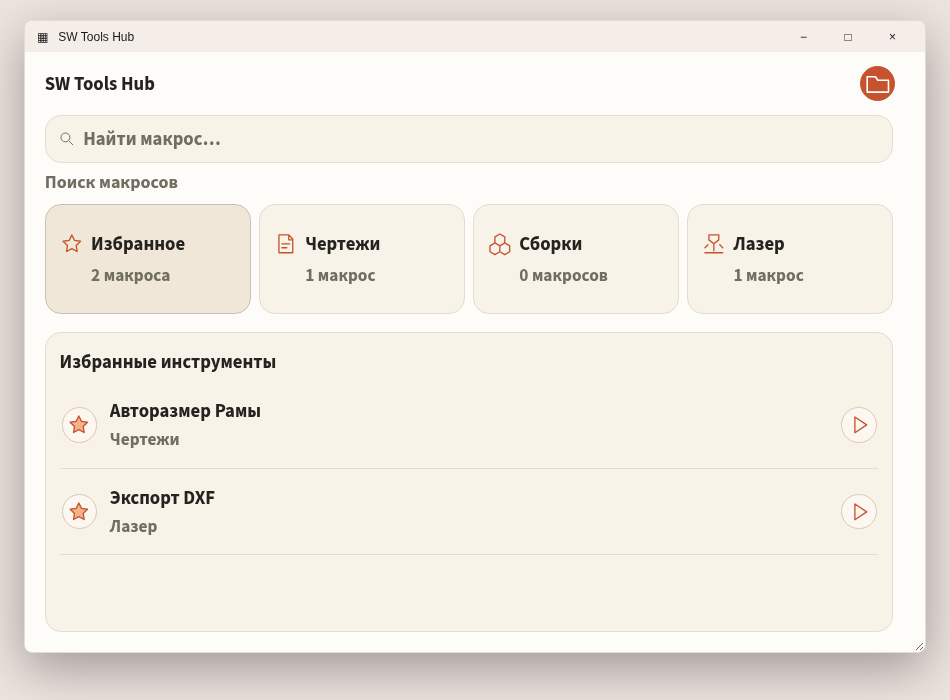
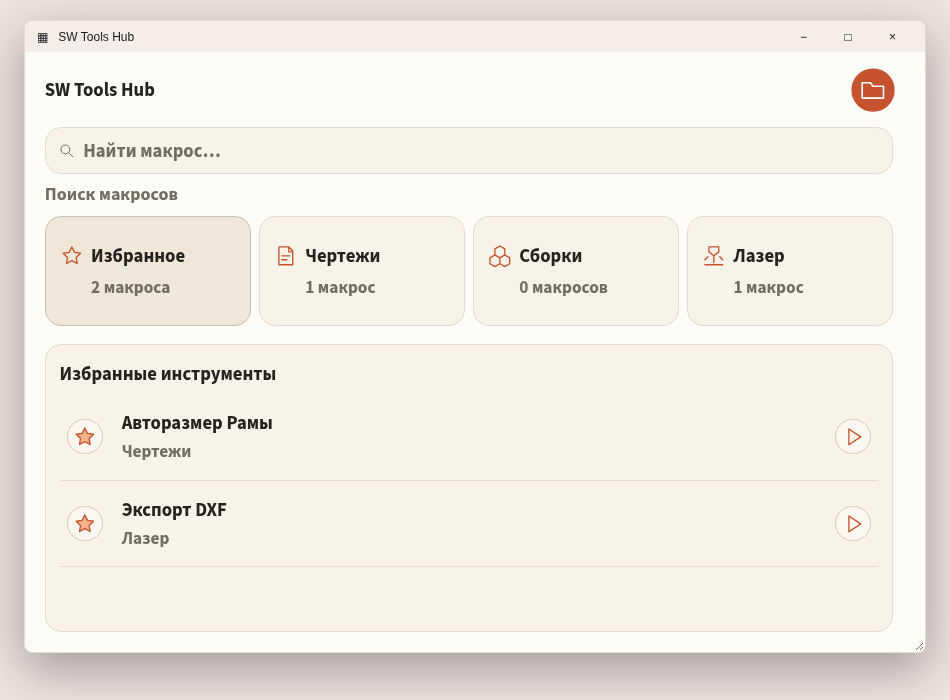
Исправить выбор макроса для запуска и добавить задержанный hover с ростом круга

diff --git a/docs/preview/index.html b/docs/preview/index.html
@@ -7,7 +7,7 @@ body{margin:0;padding:20px;background:#EDE4DF;display:flex;justify-content:cente
 .titlebar span:last-child{letter-spacing:17px}
 .app{--s:1;flex:1;min-height:0;overflow-y:auto;overflow-x:hidden;scrollbar-gutter:stable;container-type:inline-size}
 .page{min-height:100%;display:flex;flex-direction:column}
-.header{height:calc(64px * var(--s));min-height:52px;padding:calc(12px * var(--s)) calc(18px * var(--s)) calc(12px * var(--s)) calc(20px * var(--s));display:flex;align-items:center;justify-content:space-between;flex-shrink:0}
+.header{height:calc(76px * var(--s));min-height:52px;padding:calc(12px * var(--s)) calc(18px * var(--s)) calc(12px * var(--s)) calc(20px * var(--s));display:flex;align-items:center;justify-content:space-between;flex-shrink:0}
 strong,h2{font-size:18.667px;font-weight:700}
 .toolbar{display:flex;gap:calc(4px * var(--s))}
 button,input{font:inherit}
@@ -31,7 +31,7 @@ svg{width:calc(24px * var(--s));height:calc(24px * var(--s));fill:none;stroke:cu
 .content{flex:1;min-height:calc(240px * var(--s));margin:calc(10px * var(--s)) calc(20px * var(--s)) calc(20px * var(--s));padding:calc(16px * var(--s)) calc(14px * var(--s));overflow:visible;background:#F8F3E8;border:1px solid #E3DCCF;border-radius:16px}
 h2{margin:0 0 calc(16px * var(--s))}
 .empty{margin:0;color:#706D61;font-size:17.333px;line-height:1.6}
-.macro-row{display:grid;grid-template-columns:calc(40px * var(--s)) minmax(0,1fr) calc(40px * var(--s));min-height:calc(80px * var(--s));align-items:stretch;gap:calc(4px * var(--s));margin-bottom:calc(8px * var(--s));padding-bottom:calc(8px * var(--s));border-bottom:1px solid #E3DCCF}
+.macro-row{display:grid;grid-template-columns:calc(52px * var(--s)) minmax(0,1fr) calc(52px * var(--s));min-height:calc(80px * var(--s));align-items:stretch;gap:calc(4px * var(--s));margin-bottom:calc(8px * var(--s));padding-bottom:calc(8px * var(--s));border-bottom:1px solid #E3DCCF}
 .macro-row button{min-width:0}
 .macro-name{padding:calc(6px * var(--s));text-align:left;background:transparent;border-color:transparent;border-radius:12px}
 .macro-name span{display:block;overflow:hidden;text-overflow:ellipsis;white-space:nowrap}
@@ -49,14 +49,33 @@ button:focus-visible{outline:2px solid #706D61;outline-offset:2px}
 .app::-webkit-scrollbar{width:12px}.app::-webkit-scrollbar-track{background:#F6F2EA}.app::-webkit-scrollbar-thumb{background:#C5BCAF;border:3px solid #F6F2EA;border-radius:8px}.app::-webkit-scrollbar-thumb:hover{background:#AFA18E}
 .tile{transition:background-color .14s ease,color .14s ease,border-color .14s ease}.tile svg{transition:transform .14s ease,color .14s ease}
 .tile:hover{background:#C6532E;color:#FFFFFF;border-color:#C6532E}.tile:hover svg,.tile:hover small{color:#FFFFFF}.tile:hover svg{transform:scale(1.2)}
-</style><body><div class="window"><div class="titlebar"><span>▦ &nbsp; SW Tools Hub</span><span>− □ ×</span></div><main class="app"><div class="page"><header class="header"><strong>SW Tools Hub</strong><div class="toolbar"><button title="Выбрать папку библиотеки" onclick="document.getElementById('status').textContent='В приложении откроется системный выбор папки Windows.'"><svg viewBox="0 0 24 24"><path d="M3 6h7l2 3h9v10H3Z"/></svg></button></div></header><div class="search"><svg viewBox="0 0 24 24"><circle cx="10" cy="10" r="6"/><path d="m15 15 5 5"/></svg><input aria-label="Поиск макросов" oninput="render()" placeholder="Найти макрос…"></div><div class="hint">Поиск макросов</div><section class="modules"><button class="tile" onclick="show('Избранное',this)"><span class="caption"><svg viewBox="0 0 24 24"><path d="m12 3 2.7 5.5 6.1.9-4.4 4.3 1 6.1-5.4-2.9-5.4 2.9 1-6.1-4.4-4.3 6.1-.9Z"/></svg>Избранное</span><small>0 макросов</small></button><button class="tile" onclick="show('Чертежи',this)"><span class="caption"><svg viewBox="0 0 24 24"><path d="M5 3h10l4 4v14H5Zm10 0v5h4M8 12h8M8 16h5"/></svg>Чертежи</span><small>0 макросов</small></button><button class="tile" onclick="show('Сборки',this)"><span class="caption"><svg viewBox="0 0 24 24"><path d="m12 2 5 3v6l-5 3-5-3V5Zm-5 9-5 3v6l5 3 5-3v-6Zm10 0-5 3v6l5 3 5-3v-6Z"/></svg>Сборки</span><small>0 макросов</small></button><button class="tile" onclick="show('Лазер',this)"><span class="caption"><svg viewBox="0 0 24 24"><path d="M7 3h10v5l-5 4-5-4Zm5 9v7M3 21h18M6 13l-3 3m15-3 3 3"/></svg>Лазер</span><small>0 макросов</small></button></section><section class="content"><h2 id="heading">Избранные инструменты</h2><div id="rows"></div><p class="empty" id="empty">Нажмите ☆ рядом с макросом в разделе,<br>чтобы добавить его в избранное.</p></section><div class="status" id="status">Добавьте .swp в папки разделов библиотеки.</div><footer class="footer">0 инструментов · Portable</footer></div></main></div><script>
+
+/* Reserve the enlarged circle's space so hover never moves the layout. */
+.toolbar button,.row-star,.row-play{width:calc(46px * var(--s));height:calc(46px * var(--s));position:relative;isolation:isolate;background:transparent!important;border:0}
+.toolbar button::before,.row-star::before,.row-play::before{content:'';position:absolute;inset:calc(5px * var(--s));z-index:-1;border:1px solid #DEC7B1;border-radius:50%;background:#FCF7F0;transition:transform .15s ease,background-color .15s ease,border-color .15s ease}
+.toolbar button,.row-star,.row-play,.tile,.macro-name{transition:background-color .15s ease,color .15s ease,border-color .15s ease}
+.toolbar button svg,.row-play svg,.tile svg{transition:transform .15s ease,color .15s ease}
+.toolbar button:hover,.row-star:hover,.row-play:hover,.tile:hover,.macro-name:hover{transition-delay:.18s}
+.toolbar button:hover::before,.row-play:hover::before{background:#C6532E;border-color:#C6532E;transform:scale(1.2);transition-delay:.18s}
+.row-star:hover::before{background:#F6E8DA;transition-delay:.18s}
+.toolbar button:hover svg,.row-play:hover svg,.tile:hover svg{transition-delay:.18s}
+.tile small{transition:color .15s ease}.tile:hover small{transition-delay:.18s}
+dialog{width:min(560px,calc(100vw - 40px));padding:24px;border:1px solid #E3DCCF;border-radius:16px;background:#FDFCF8;color:#24231F;box-shadow:0 18px 70px #0003;font:inherit}
+dialog::backdrop{background:#24231F55}dialog h2{margin-bottom:12px}dialog p{font-size:16px;color:#706D61;margin:0 0 20px}dialog label{display:block;margin:12px 0 6px}dialog select{width:100%;padding:10px;font:inherit;border:1px solid #E3DCCF;border-radius:10px;background:#F8F3E8;color:#24231F}.entry-buttons{display:flex;justify-content:flex-end;gap:10px;margin-top:24px}.entry-buttons button{padding:10px 18px}
+</style><body><div class="window"><div class="titlebar"><span>▦ &nbsp; SW Tools Hub</span><span>− □ ×</span></div><main class="app"><div class="page"><header class="header"><strong>SW Tools Hub</strong><div class="toolbar"><button title="Выбрать папку библиотеки" onclick="document.getElementById('status').textContent='В приложении откроется системный выбор папки Windows.'"><svg viewBox="0 0 24 24"><path d="M3 6h7l2 3h9v10H3Z"/></svg></button></div></header><div class="search"><svg viewBox="0 0 24 24"><circle cx="10" cy="10" r="6"/><path d="m15 15 5 5"/></svg><input aria-label="Поиск макросов" oninput="render()" placeholder="Найти макрос…"></div><div class="hint">Поиск макросов</div><section class="modules"><button class="tile" onclick="show('Избранное',this)"><span class="caption"><svg viewBox="0 0 24 24"><path d="m12 3 2.7 5.5 6.1.9-4.4 4.3 1 6.1-5.4-2.9-5.4 2.9 1-6.1-4.4-4.3 6.1-.9Z"/></svg>Избранное</span><small>0 макросов</small></button><button class="tile" onclick="show('Чертежи',this)"><span class="caption"><svg viewBox="0 0 24 24"><path d="M5 3h10l4 4v14H5Zm10 0v5h4M8 12h8M8 16h5"/></svg>Чертежи</span><small>0 макросов</small></button><button class="tile" onclick="show('Сборки',this)"><span class="caption"><svg viewBox="0 0 24 24"><path d="m12 2 5 3v6l-5 3-5-3V5Zm-5 9-5 3v6l5 3 5-3v-6Zm10 0-5 3v6l5 3 5-3v-6Z"/></svg>Сборки</span><small>0 макросов</small></button><button class="tile" onclick="show('Лазер',this)"><span class="caption"><svg viewBox="0 0 24 24"><path d="M7 3h10v5l-5 4-5-4Zm5 9v7M3 21h18M6 13l-3 3m15-3 3 3"/></svg>Лазер</span><small>0 макросов</small></button></section><section class="content"><h2 id="heading">Избранные инструменты</h2><div id="rows"></div><p class="empty" id="empty">Нажмите ☆ рядом с макросом в разделе,<br>чтобы добавить его в избранное.</p></section><div class="status" id="status">Добавьте .swp в папки разделов библиотеки.</div><footer class="footer">0 инструментов · Portable</footer></div></main></div><dialog id="entry-dialog"><h2 id="entry-title">Выбор модуля и инструмента</h2><p>Выберите модуль и инструмент для выбранного макроса.</p><label for="entry-module">Модуль</label><select id="entry-module"></select><label for="entry-procedure">Инструмент / процедура</label><select id="entry-procedure"></select><div class="entry-buttons"><button id="entry-cancel">Отмена</button><button id="entry-confirm">Запустить</button></div></dialog><script>
 // Данные только для предварительного просмотра: рабочие .swp не добавляются.
 const macros=[{name:'Авторазмер Рамы',category:'Чертежи',favorite:true},{name:'Экспорт DXF',category:'Лазер',favorite:true}];
 let section=null, selected=null;
 function macroCount(value){const form=new Intl.PluralRules('ru').select(value);return value+' '+({one:'макрос',few:'макроса',many:'макросов',other:'макроса'}[form])}
 function show(title,button){if(title==='Избранное'){section=null;document.querySelector('input').value=''}else section=section===title?null:title;render()}
-function render(){const query=document.querySelector('input').value.trim().toLowerCase();const home=!section&&!query;document.getElementById('heading').textContent=home?'Избранные инструменты':query?'Результаты поиска':section;document.querySelectorAll('.tile').forEach((tile,i)=>{const category=['Избранное','Чертежи','Сборки','Лазер'][i];tile.classList.toggle('active',i===0?section===null:section===category);tile.querySelector('small').textContent=macroCount(macros.filter(m=>i===0?m.favorite:m.category===category).length)});const visible=macros.filter(m=>(!section||m.category===section)&&(!home||m.favorite)&&m.name.toLowerCase().includes(query));const rows=document.getElementById('rows');rows.replaceChildren();visible.forEach(m=>{const row=document.createElement('div');row.className='macro-row';const star=document.createElement('button');star.className='row-star';star.innerHTML='<svg viewBox="0 0 24 24" style="fill:'+(m.favorite?'#F3B28A':'none')+'"><path d="m12 3 2.7 5.5 6.1.9-4.4 4.3 1 6.1-5.4-2.9-5.4 2.9 1-6.1-4.4-4.3 6.1-.9Z"/></svg>';star.title=(m.favorite?'Убрать из избранного: ':'В избранное: ')+m.name;star.onclick=()=>{m.favorite=!m.favorite;render()};const name=document.createElement('button');name.className='macro-name'+(selected===m?' selected':'');const title=document.createElement('span');title.textContent=m.name;name.append(title);if(home){const subtitle=document.createElement('small');subtitle.textContent=m.category;name.append(subtitle)}name.onclick=()=>{selected=m;render()};const play=document.createElement('button');play.className='row-play';play.title='Запустить: '+m.name;play.innerHTML='<svg viewBox="0 0 24 24"><path d="m8 4 12 8-12 8Z"/></svg>';play.onclick=()=>{selected=m;render()};row.append(star,name,play);rows.append(row)});document.getElementById('empty').style.display=visible.length?'none':'block';document.getElementById('empty').textContent=home?'Нажмите ☆ рядом с макросом в разделе, чтобы добавить его в избранное.':'Макросов пока нет. Измените запрос или раздел.'}
+function render(){const query=document.querySelector('input').value.trim().toLowerCase();const home=!section&&!query;document.getElementById('heading').textContent=home?'Избранные инструменты':query?'Результаты поиска':section;document.querySelectorAll('.tile').forEach((tile,i)=>{const category=['Избранное','Чертежи','Сборки','Лазер'][i];tile.classList.toggle('active',i===0?section===null:section===category);tile.querySelector('small').textContent=macroCount(macros.filter(m=>i===0?m.favorite:m.category===category).length)});const visible=macros.filter(m=>(!section||m.category===section)&&(!home||m.favorite)&&m.name.toLowerCase().includes(query));const rows=document.getElementById('rows');rows.replaceChildren();visible.forEach(m=>{const row=document.createElement('div');row.className='macro-row';const star=document.createElement('button');star.className='row-star';star.innerHTML='<svg viewBox="0 0 24 24" style="fill:'+(m.favorite?'#F3B28A':'none')+'"><path d="m12 3 2.7 5.5 6.1.9-4.4 4.3 1 6.1-5.4-2.9-5.4 2.9 1-6.1-4.4-4.3 6.1-.9Z"/></svg>';star.title=(m.favorite?'Убрать из избранного: ':'В избранное: ')+m.name;star.onclick=()=>{m.favorite=!m.favorite;render()};const name=document.createElement('button');name.className='macro-name'+(selected===m?' selected':'');const title=document.createElement('span');title.textContent=m.name;name.append(title);if(home){const subtitle=document.createElement('small');subtitle.textContent=m.category;name.append(subtitle)}name.onclick=()=>{selected=m;render()};const play=document.createElement('button');play.className='row-play';play.title='Запустить: '+m.name;play.innerHTML='<svg viewBox="0 0 24 24"><path d="m8 4 12 8-12 8Z"/></svg>';play.onclick=()=>openEntry(m);row.append(star,name,play);rows.append(row)});document.getElementById('empty').style.display=visible.length?'none':'block';document.getElementById('empty').textContent=home?'Нажмите ☆ рядом с макросом в разделе, чтобы добавить его в избранное.':'Макросов пока нет. Измените запрос или раздел.'}
 
+let entryMethods={};
+function updateProcedures(){const control=document.getElementById('entry-procedure');control.replaceChildren(...entryMethods[document.getElementById('entry-module').value].map(name=>new Option(name,name)))}
+function openEntry(m){selected=m;entryMethods=m.entries||(m.name==='Авторазмер Рамы'?{FrameCutListDimensionsV3:['main']}:{DXFExport:['main','exportSelected']});document.getElementById('entry-title').textContent=m.name;const modules=document.getElementById('entry-module');modules.replaceChildren(...Object.keys(entryMethods).map(name=>new Option(name,name)));updateProcedures();document.getElementById('entry-dialog').showModal()}
+document.getElementById('entry-module').onchange=updateProcedures;
+document.getElementById('entry-cancel').onclick=()=>document.getElementById('entry-dialog').close();
+document.getElementById('entry-confirm').onclick=()=>{document.getElementById('status').textContent='Предварительный просмотр — макрос не выполнялся.';document.getElementById('entry-dialog').close()};
 render();
 const app=document.querySelector('.app');
 new ResizeObserver(()=>app.style.setProperty('--s',Math.max(.8,Math.min(1.5,app.clientWidth/900)))).observe(app);

diff --git a/addin/portable/Program.cs b/addin/portable/Program.cs
@@ -25,7 +25,7 @@ namespace SWToolsHub.Portable
     {
         private readonly string root = AppDomain.CurrentDomain.BaseDirectory;
         private readonly TextBox search = new TextBox { Dock = DockStyle.Fill, BorderStyle = BorderStyle.None };
-        private readonly ListBox list = new ListBox { Dock = DockStyle.Fill, DisplayMember = "name" };
+        private Macro selectedMacro;
         private readonly Label status = new Label { Dock = DockStyle.Bottom, Height = 90, AutoEllipsis = true };
         private Macro[] macros = new Macro[0];
         private bool busy;
@@ -81,11 +81,11 @@ namespace SWToolsHub.Portable
             Font = UiTheme.CreateFont(); titleFont = (Font)Font.Clone(); BackColor = Background; ForeColor = Foreground;
             shell = new TableLayoutPanel { ColumnCount = 1, RowCount = 5, Padding = new Padding(0) };
             shell.ColumnStyles.Add(new ColumnStyle(SizeType.Percent, 100));
-            foreach (var height in new[] { 64, 56, 30, 120 }) shell.RowStyles.Add(new RowStyle(SizeType.Absolute, height));
+            foreach (var height in new[] { 76, 56, 30, 120 }) shell.RowStyles.Add(new RowStyle(SizeType.Absolute, height));
             shell.RowStyles.Add(new RowStyle(SizeType.Percent, 100));
             header = new TableLayoutPanel { Dock = DockStyle.Fill, ColumnCount = 2, RowCount = 1, Padding = new Padding(20, 12, 16, 12) };
             header.ColumnStyles.Add(new ColumnStyle(SizeType.Percent, 100));
-            for (int i = 0; i < 1; i++) header.ColumnStyles.Add(new ColumnStyle(SizeType.Absolute, Px(40)));
+            for (int i = 0; i < 1; i++) header.ColumnStyles.Add(new ColumnStyle(SizeType.Absolute, Px(52)));
             var brand = new Label { Text = "SW Tools Hub", Dock = DockStyle.Fill, TextAlign = ContentAlignment.MiddleLeft, Font = titleFont };
             var choose = MakeButton("");
             ConfigureIcon(choose, "folder", "Выбрать корневую папку библиотеки");
@@ -136,9 +136,8 @@ namespace SWToolsHub.Portable
         }
         private void Filter()
         {
-            var selectedId = (list.SelectedItem as Macro)?.id;
-            list.DataSource = VisibleMacros();
-            list.SelectedItem = selectedId == null ? null : macros.FirstOrDefault(m => m.id == selectedId);
+            var selectedId = selectedMacro?.id;
+            selectedMacro = VisibleMacros().FirstOrDefault(m => m.id == selectedId);
             RefreshLayout();
         }
         private Macro[] VisibleMacros()
@@ -226,13 +225,13 @@ namespace SWToolsHub.Portable
                 shell.SuspendLayout();
                 shell.Width = Math.Max(1, viewport.ClientSize.Width - SystemInformation.VerticalScrollBarWidth);
                 shell.Margin = new Padding(0);
-                var heights = new[] { Px(64), Math.Max(Px(56), Font.Height + Px(28)), Math.Max(Px(30), Font.Height + Px(4)), Px(narrow ? 240 : 120) };
+                var heights = new[] { Px(76), Math.Max(Px(56), Font.Height + Px(28)), Math.Max(Px(30), Font.Height + Px(4)), Px(narrow ? 240 : 120) };
                 for (int i = 0; i < heights.Length; i++) shell.RowStyles[i].Height = heights[i];
                 header.Padding = Space(20, 12, 16, 12);
-                header.ColumnStyles[1].Width = Px(40);
+                header.ColumnStyles[1].Width = Px(52);
                 foreach (var button in header.Controls.OfType<RoundedButton>()) {
                     button.Dock = DockStyle.None; button.Anchor = AnchorStyles.None;
-                    button.Size = new Size(Px(36), Px(36)); button.IconSize = Px(24); button.Margin = new Padding(Px(2));
+                    button.Size = new Size(Px(46), Px(46)); button.IconSize = Px(24); button.Margin = new Padding(Px(2));
                 }
                 searchBox.Padding = Space(12, 12, 12, 8); searchBox.Margin = Space(20, 0, 20, 8);
                 heading.Padding = Space(20, 0, 0, 0);
@@ -299,11 +298,11 @@ namespace SWToolsHub.Portable
             foreach (var macro in visible) {
                 var row = new TableLayoutPanel { Width = width, Height = Px(home ? 84 : 68), ColumnCount = 3, RowCount = 1, Margin = Space(0, 0, 0, 4) };
                 row.Paint += (s, e) => { using (var pen = new Pen(UiTheme.Border)) e.Graphics.DrawLine(pen, 0, row.Height - 1, row.Width, row.Height - 1); };
-                row.ColumnStyles.Add(new ColumnStyle(SizeType.Absolute, Px(40))); row.ColumnStyles.Add(new ColumnStyle(SizeType.Percent, 100)); row.ColumnStyles.Add(new ColumnStyle(SizeType.Absolute, Px(40)));
+                row.ColumnStyles.Add(new ColumnStyle(SizeType.Absolute, Px(52))); row.ColumnStyles.Add(new ColumnStyle(SizeType.Percent, 100)); row.ColumnStyles.Add(new ColumnStyle(SizeType.Absolute, Px(52)));
                 bool favorite = settings.Favorites.Contains(macro.id, StringComparer.OrdinalIgnoreCase);
                 var star = MakeButton("");
                 ConfigureIcon(star, favorite ? "starFilled" : "star", (favorite ? "Убрать из избранного: " : "В избранное: ") + macro.name);
-                star.Dock = DockStyle.None; star.Anchor = AnchorStyles.None; star.Size = new Size(Px(36), Px(36));
+                star.Dock = DockStyle.None; star.Anchor = AnchorStyles.None; star.Size = new Size(Px(46), Px(46));
                 star.Click += (s, e) => {
                     var previous = settings.Favorites.ToList();
                     settings.Favorites.RemoveAll(id => string.Equals(id, macro.id, StringComparison.OrdinalIgnoreCase));
@@ -315,12 +314,12 @@ namespace SWToolsHub.Portable
                 ((RoundedButton)name).Borderless = true;
                 if (home) ((RoundedButton)name).SecondaryText = macro.category;
                 name.Dock = DockStyle.Fill; name.AutoEllipsis = true;
-                if ((list.SelectedItem as Macro)?.id == macro.id) name.BackColor = UiTheme.Selected;
-                name.Click += (s, e) => { list.SelectedItem = macro; status.Text = "Выбран: " + macro.name; RenderLibrary(); };
+                if (selectedMacro?.id == macro.id) name.BackColor = UiTheme.Selected;
+                name.Click += (s, e) => { selectedMacro = macro; status.Text = "Выбран: " + macro.name; RenderLibrary(); };
                 var play = MakeButton("");
                 ConfigureIcon(play, "play", "Выбрать процедуру и запустить: " + macro.name);
-                play.Dock = DockStyle.None; play.Anchor = AnchorStyles.None; play.Size = new Size(Px(36), Px(36));
-                play.Click += (s, e) => { list.SelectedItem = macro; RunSelected(true); };
+                play.Dock = DockStyle.None; play.Anchor = AnchorStyles.None; play.Size = new Size(Px(46), Px(46));
+                play.Click += (s, e) => { selectedMacro = macro; RunSelected(macro, true); };
                 row.Controls.Add(star, 0, 0); row.Controls.Add(name, 1, 0); row.Controls.Add(play, 2, 0); content.Controls.Add(row);
             }
             if (visible.Length == 0) content.Controls.Add(new Label { Text = home ? "Нажмите ☆ рядом с макросом в разделе, чтобы добавить его в избранное." : "Макросов пока нет. Добавьте .swp в папку раздела или измените запрос поиска.", Margin = new Padding(0), Width = width, Height = Px(100), ForeColor = Muted });
@@ -333,12 +332,11 @@ namespace SWToolsHub.Portable
             content.ResumeLayout();
         }
         private void ShowError(string text) { status.Text = text; MessageBox.Show(this, text, "SW Tools Hub", MessageBoxButtons.OK, MessageBoxIcon.Warning); }
-        private void RunSelected(bool chooseEntry = false)
+        private void RunSelected(Macro selected, bool chooseEntry = false)
         {
             if (busy) return;
-            var selected = list.SelectedItem as Macro;
             if (selected == null) { ShowError("Выберите инструмент."); return; }
-            busy = true; list.Enabled = false; content.Enabled = false; moduleGrid.Enabled = false;
+            busy = true; content.Enabled = false; moduleGrid.Enabled = false;
             SldWorks sw = null; ModelDoc2 document = null;
             try
             {
@@ -383,7 +381,7 @@ namespace SWToolsHub.Portable
             finally
             {
                 Release(document); Release(sw);
-                busy = false; list.Enabled = true; content.Enabled = true; moduleGrid.Enabled = true;
+                busy = false; content.Enabled = true; moduleGrid.Enabled = true;
             }
         }
         private static void Release(object value)

diff --git a/addin/portable/UiTheme.cs b/addin/portable/UiTheme.cs
@@ -43,6 +43,11 @@ namespace SWToolsHub.Portable
             fonts.Dispose();
             if (fontPath != null) RemoveFontResourceEx(fontPath, 0x10, IntPtr.Zero);
         }
+        public static Color Blend(Color from, Color to, float amount)
+        {
+            amount = Math.Max(0, Math.Min(1, amount));
+            return Color.FromArgb((int)Math.Round(from.R + (to.R - from.R) * amount), (int)Math.Round(from.G + (to.G - from.G) * amount), (int)Math.Round(from.B + (to.B - from.B) * amount));
+        }
         public static GraphicsPath Shape(RectangleF bounds, float radius)
         {
             var path = new GraphicsPath();
@@ -76,34 +81,61 @@ namespace SWToolsHub.Portable
         public bool LeadingIcon { get; set; }
         public bool Borderless { get; set; }
         private bool hovered;
-        public RoundedButton() { DoubleBuffered = true; ResizeRedraw = true; }
-        protected override void OnMouseEnter(EventArgs e) { hovered = true; Invalidate(); base.OnMouseEnter(e); }
-        protected override void OnMouseLeave(EventArgs e) { hovered = false; Invalidate(); base.OnMouseLeave(e); }
+        private bool hoverReady;
+        private bool stopping;
+        private float hoverProgress;
+        private readonly Timer hoverDelay = new Timer { Interval = 180 };
+        private readonly Timer hoverAnimation = new Timer { Interval = 15 };
+        public RoundedButton()
+        {
+            DoubleBuffered = true; ResizeRedraw = true;
+            hoverDelay.Tick += (s, e) => { hoverDelay.Stop(); if (hovered && Enabled) { hoverReady = true; hoverAnimation.Start(); } };
+            hoverAnimation.Tick += (s, e) => {
+                float target = hovered && hoverReady && Enabled ? 1 : 0;
+                hoverProgress = target > hoverProgress ? Math.Min(target, hoverProgress + .1f) : Math.Max(target, hoverProgress - .1f);
+                Invalidate(); if (Math.Abs(hoverProgress - target) < .001f) hoverAnimation.Stop();
+            };
+        }
+        protected override void OnMouseEnter(EventArgs e) { if (!stopping) { hovered = true; hoverDelay.Stop(); hoverDelay.Start(); } base.OnMouseEnter(e); }
+        protected override void OnMouseLeave(EventArgs e) { if (!stopping) { hovered = false; hoverReady = false; hoverDelay.Stop(); hoverAnimation.Start(); } base.OnMouseLeave(e); }
+        protected override void OnEnabledChanged(EventArgs e)
+        {
+            base.OnEnabledChanged(e);
+            if (!Enabled && !stopping) { hoverDelay.Stop(); hoverAnimation.Stop(); hovered = hoverReady = false; hoverProgress = 0; Invalidate(); }
+        }
+        protected override void Dispose(bool disposing)
+        {
+            if (disposing) { stopping = true; hoverDelay.Dispose(); hoverAnimation.Dispose(); }
+            base.Dispose(disposing);
+        }
         protected override void OnPaint(PaintEventArgs e)
         {
             e.Graphics.Clear(Parent?.BackColor ?? BackColor);
             e.Graphics.SmoothingMode = SmoothingMode.AntiAlias;
             bool card = BackColor.ToArgb() == UiTheme.Card.ToArgb() || BackColor.ToArgb() == UiTheme.Selected.ToArgb();
-            bool accentActive = AccentHover && hovered && Enabled;
-            var hoverColor = accentActive ? UiTheme.AccentInk : IconOnly ? UiTheme.IconHover : card ? UiTheme.Selected : UiTheme.Background;
-            float diameter = Math.Max(1, Math.Min(Width, Height) - 2);
+            float progress = Enabled ? hoverProgress : 0;
+            float accentProgress = AccentHover ? progress : 0;
+            bool accentActive = accentProgress > 0;
+            var hoverColor = AccentHover ? UiTheme.AccentInk : IconOnly ? UiTheme.IconHover : card ? UiTheme.Selected : UiTheme.Background;
+            float available = Math.Max(1, Math.Min(Width, Height) - 2);
+            float diameter = Math.Min(available, Math.Max(1, Math.Min(Width, Height) * (36f / 46f) - 2) * (1 + .2f * accentProgress));
             var shapeBounds = IconOnly ? new RectangleF((Width - diameter) / 2, (Height - diameter) / 2, diameter, diameter) : new RectangleF(1, 1, Width - 2, Height - 2);
             using (var path = UiTheme.Shape(shapeBounds, IconOnly ? diameter / 2 : 16))
-            using (var fill = new SolidBrush(hovered && Enabled ? hoverColor : BackColor))
-            using (var pen = new Pen(accentActive ? UiTheme.AccentInk : Focused ? UiTheme.IconInk : IconOnly ? UiTheme.IconBorder : UiTheme.Border, Focused ? 2 : 1)) {
+            using (var fill = new SolidBrush(UiTheme.Blend(BackColor, hoverColor, progress)))
+            using (var pen = new Pen(UiTheme.Blend(Focused ? UiTheme.IconInk : IconOnly ? UiTheme.IconBorder : UiTheme.Border, UiTheme.AccentInk, accentProgress), Focused ? 2 : 1)) {
                 e.Graphics.FillPath(fill, path); if (!Borderless || Focused) e.Graphics.DrawPath(pen, path);
             }
             int iconSpace = (int)Math.Round(IconSize) + 8;
             if (Image != null) {
                 int normalSize = Math.Max(1, Math.Min((int)Math.Round(IconSize), Math.Min(Width, Height) - 8));
-                int size = accentActive ? Math.Min(Math.Min(Width, Height) - 6, (int)Math.Round(normalSize * 1.2)) : normalSize;
+                int size = accentActive ? Math.Min(Math.Min(Width, Height) - 6, (int)Math.Round(normalSize * (1 + .2f * accentProgress))) : normalSize;
                 int x = LeadingIcon ? Padding.Left : (Width - size) / 2;
                 int y = LeadingIcon ? Math.Max(8, (Height - Font.Height * (string.IsNullOrEmpty(SecondaryText) ? 3 : 2) - 2) / 2) : (Height - size) / 2;
                 var target = new Rectangle(x, y, size, size);
                 e.Graphics.InterpolationMode = InterpolationMode.HighQualityBicubic;
                 if (accentActive) {
                     using (var attributes = new ImageAttributes()) {
-                        var tint = new ColorMatrix { Matrix00 = 0, Matrix11 = 0, Matrix22 = 0, Matrix40 = 1, Matrix41 = 1, Matrix42 = 1 };
+                        var tint = new ColorMatrix { Matrix00 = 1 - accentProgress, Matrix11 = 1 - accentProgress, Matrix22 = 1 - accentProgress, Matrix40 = accentProgress, Matrix41 = accentProgress, Matrix42 = accentProgress };
                         attributes.SetColorMatrix(tint);
                         e.Graphics.DrawImage(Image, target, 0, 0, Image.Width, Image.Height, GraphicsUnit.Pixel, attributes);
                     }
@@ -112,7 +144,7 @@ namespace SWToolsHub.Portable
             }
             var textBounds = new Rectangle(Padding.Left, Padding.Top, Math.Max(1, Width - Padding.Horizontal), Math.Max(1, Height - Padding.Vertical));
             if (LeadingIcon) { textBounds.X += iconSpace; textBounds.Width = Math.Max(1, textBounds.Width - iconSpace); }
-            var textColor = accentActive ? Color.White : Enabled ? ForeColor : SystemColors.GrayText;
+            var textColor = Enabled ? UiTheme.Blend(ForeColor, Color.White, accentProgress) : SystemColors.GrayText;
             var flags = TextFormatFlags.VerticalCenter | TextFormatFlags.WordBreak | TextFormatFlags.EndEllipsis;
             flags |= TextAlign == ContentAlignment.MiddleCenter ? TextFormatFlags.HorizontalCenter : TextFormatFlags.Left;
             if (!string.IsNullOrEmpty(SecondaryText)) {
@@ -122,7 +154,7 @@ namespace SWToolsHub.Portable
                 var lineFlags = TextFormatFlags.Left | TextFormatFlags.SingleLine | TextFormatFlags.EndEllipsis;
                 TextRenderer.DrawText(e.Graphics, Text, Font, titleBounds, textColor, lineFlags);
                 using (var detailFont = new Font(Font.FontFamily, Math.Max(8, Font.Size - 1), Font.Style))
-                    TextRenderer.DrawText(e.Graphics, SecondaryText, detailFont, detailBounds, accentActive ? Color.White : UiTheme.Muted, lineFlags);
+                    TextRenderer.DrawText(e.Graphics, SecondaryText, detailFont, detailBounds, UiTheme.Blend(UiTheme.Muted, Color.White, accentProgress), lineFlags);
             } else TextRenderer.DrawText(e.Graphics, Text, Font, textBounds, textColor, flags);
         }
     }

diff --git a/addin/portable/EntryDialog.cs b/addin/portable/EntryDialog.cs
@@ -12,10 +12,10 @@ namespace SWToolsHub.Portable
         {
             BackColor = UiTheme.Background; ForeColor = UiTheme.Text;
             Font = UiTheme.CreateFont();
-            Text = "Модуль и процедура: " + name;
+            Text = "Выбор модуля и инструмента: " + name;
             StartPosition = FormStartPosition.CenterParent;
             AutoScaleMode = AutoScaleMode.Dpi;
-            ClientSize = new Size(640, 460); MinimumSize = new Size(580, 460);
+            ClientSize = new Size(640, 520); MinimumSize = SizeFromClientSize(new Size(560, 500));
             var layout = new TableLayoutPanel { Dock = DockStyle.Fill, Padding = new Padding(12), ColumnCount = 1, RowCount = 7 };
             layout.ColumnStyles.Add(new ColumnStyle(SizeType.Percent, 100));
             foreach (var height in new[] { 88, 32, 42, 32, 42, 74, 54 }) layout.RowStyles.Add(new RowStyle(SizeType.Absolute, height));
@@ -55,7 +55,7 @@ namespace SWToolsHub.Portable
                 Entry = entry.FullName; DialogResult = DialogResult.OK;
             };
             layout.Controls.Add(info, 0, 0); layout.Controls.Add(new Label { Text = "Модуль", Dock = DockStyle.Fill }, 0, 1);
-            layout.Controls.Add(module, 0, 2); layout.Controls.Add(new Label { Text = "Процедура", Dock = DockStyle.Fill }, 0, 3);
+            layout.Controls.Add(module, 0, 2); layout.Controls.Add(new Label { Text = "Инструмент / процедура", Dock = DockStyle.Fill }, 0, 3);
             layout.Controls.Add(procedure, 0, 4); layout.Controls.Add(reload, 0, 5); layout.Controls.Add(buttons, 0, 6);
             foreach (var field in new[] { module, procedure }) { field.BackColor = UiTheme.Surface; field.ForeColor = ForeColor; field.FlatStyle = FlatStyle.Flat; }
             foreach (var button in new[] { reload, confirm, cancel }) { button.FlatStyle = FlatStyle.Flat; button.FlatAppearance.BorderSize = 0; button.BackColor = UiTheme.Card; button.ForeColor = UiTheme.OnCard; }

diff --git a/docs/HANDOFF.md b/docs/HANDOFF.md
@@ -1,5 +1,41 @@
 # Продолжение разработки SW Tools Hub
 
+## Запуск строки, выбор инструмента и задержанный hover (9 ноября 2026)
+
+Исправлена причина предупреждения «Выберите инструмент» при нажатии
+play: прежний код записывал/читал SelectedItem скрытого ListBox,
+не связанного с видимыми строками. Скрытый список удалён. Кнопка строки
+передаёт свой Macro прямо в RunSelected(Macro, true); отдельное поле
+selectedMacro используется только для подсветки. Перед исполнением
+по-прежнему повторно проверяются файл/папка, документ, точка входа
+и блокировка повторного запуска. COM-вызовы остаются в STA UI-потоке.
+
+Play открывает существующий EntryDialog с выбором модуля и инструмента
+(процедуры) из GetMacroMethods. При пустом ответе API сохраняются
+известная/сохранённая точка входа и ручной ввод. Выбор сохраняется
+по пути файла, отмена не запускает VBA. Метки диалога уточнены;
+клиентская высота увеличена до 520 px, чтобы все строки и кнопки помещались.
+Самостоятельная реальная Windows/SolidWorks-проверка запуска ещё нужна.
+
+У RoundedButton добавлена задержка hover 180 ms и плавное изменение
+примерно за 150 ms. При коротком наведении эффект не включается;
+при уходе курсора сразу начинается обратный переход. Таймеры
+останавливаются при отключении и освобождаются при Dispose.
+Кружки play/папки растут вместе со значком на 20%. В разметке для них
+зарезервирована квадратная область 46 базовых px, базовый вид круга
+остался около 36 px; колонки расширены, соседние строки не сдвигаются.
+
+Сборка net48 прошла без ошибок и предупреждений; 27 проверок сканера
+и разбора процедур прошли. Браузерный макет проверен: задержка до
+срабатывания, отмена короткого hover, рост круга/значка без сдвига,
+прямое открытие диалога нужного макроса без выбора строки, переключение
+модулей и зависимого списка процедур, отмена/подтверждение, компактная
+прокрутка. entry-picker.png показывает макет выбора; реальные COM/VBA
+он не исполняет. Превью, Portable ZIP и SHA-256 обновлены.
+WinForms/DPI, работа таймеров и настоящий GetMacroMethods/RunMacro2
+после изменения требуют приёмки на Windows с SolidWorks.
+
+
 ## Круглая кнопка папки и папка «Избранное» (9 ноября 2026)
 
 Кнопка выбора библиотеки в шапке больше не заполняет прямоугольную ячейку:

diff --git a/addin/portable/README.md b/addin/portable/README.md
@@ -1,5 +1,41 @@
 # Переносимое приложение
 
+## Запуск строки, выбор инструмента и задержанный hover (9 ноября 2026)
+
+Исправлена причина предупреждения «Выберите инструмент» при нажатии
+play: прежний код записывал/читал SelectedItem скрытого ListBox,
+не связанного с видимыми строками. Скрытый список удалён. Кнопка строки
+передаёт свой Macro прямо в RunSelected(Macro, true); отдельное поле
+selectedMacro используется только для подсветки. Перед исполнением
+по-прежнему повторно проверяются файл/папка, документ, точка входа
+и блокировка повторного запуска. COM-вызовы остаются в STA UI-потоке.
+
+Play открывает существующий EntryDialog с выбором модуля и инструмента
+(процедуры) из GetMacroMethods. При пустом ответе API сохраняются
+известная/сохранённая точка входа и ручной ввод. Выбор сохраняется
+по пути файла, отмена не запускает VBA. Метки диалога уточнены;
+клиентская высота увеличена до 520 px, чтобы все строки и кнопки помещались.
+Самостоятельная реальная Windows/SolidWorks-проверка запуска ещё нужна.
+
+У RoundedButton добавлена задержка hover 180 ms и плавное изменение
+примерно за 150 ms. При коротком наведении эффект не включается;
+при уходе курсора сразу начинается обратный переход. Таймеры
+останавливаются при отключении и освобождаются при Dispose.
+Кружки play/папки растут вместе со значком на 20%. В разметке для них
+зарезервирована квадратная область 46 базовых px, базовый вид круга
+остался около 36 px; колонки расширены, соседние строки не сдвигаются.
+
+Сборка net48 прошла без ошибок и предупреждений; 27 проверок сканера
+и разбора процедур прошли. Браузерный макет проверен: задержка до
+срабатывания, отмена короткого hover, рост круга/значка без сдвига,
+прямое открытие диалога нужного макроса без выбора строки, переключение
+модулей и зависимого списка процедур, отмена/подтверждение, компактная
+прокрутка. entry-picker.png показывает макет выбора; реальные COM/VBA
+он не исполняет. Превью, Portable ZIP и SHA-256 обновлены.
+WinForms/DPI, работа таймеров и настоящий GetMacroMethods/RunMacro2
+после изменения требуют приёмки на Windows с SolidWorks.
+
+
 ## Круглая кнопка папки и папка «Избранное» (9 ноября 2026)
 
 Кнопка выбора библиотеки в шапке больше не заполняет прямоугольную ячейку:
